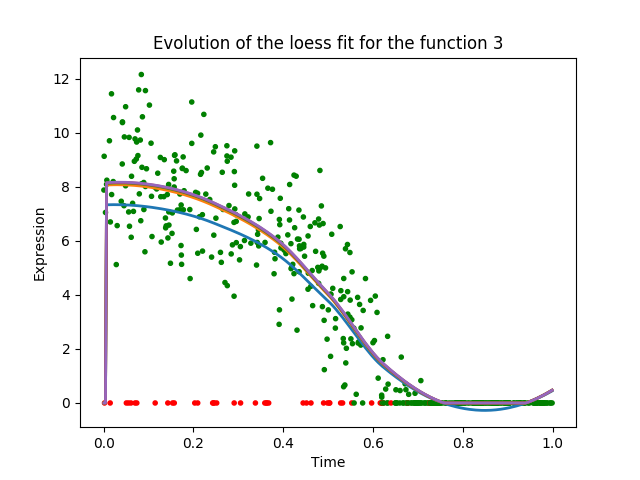
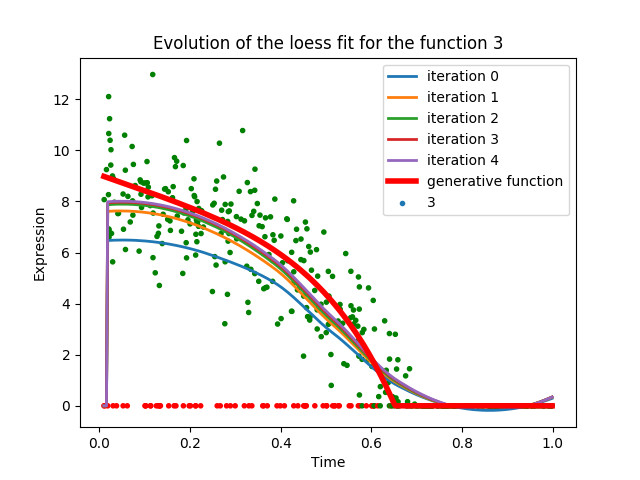
New figures

diff --git a/Code/em.py b/Code/em.py
@@ -200,12 +200,13 @@ def show_loess(data, loess, real_functions, labels):
                 plt.xlabel('Time')
                 plt.ylabel('Expression')
                 plt.title('Evolution of the loess fit for the function %s' % ix)
-                plt.savefig('../figure/loess_fit_%s.png' % ix)
 
         f = lambda x: np.polyval(real_functions.loc[ix, :], x)
         real_values = [max(f(t), 0) for t in times]
         plt.plot(times, real_values, c='r', linewidth=4, label='generative function')
         plt.legend()
+        plt.savefig('../figure/loess_fit_%s.png' % ix)
+
     plt.show()
 
 
@@ -213,10 +214,12 @@ if __name__ == '__main__':
 
     print('Loading data...')
 
-    data = pd.read_csv('../cache/synthetic_data.csv', index_col=0)
-    times = np.array(pd.read_csv('../cache/times.csv', index_col=0))
-    real_labels = pd.read_csv('../cache/dropped_points.csv', index_col=0)
-    real_function = pd.read_csv('../cache/generative_functions.csv', index_col=0)
+    n_genes = 5
+
+    data = pd.read_csv('../cache/synthetic_data.csv', index_col=0, nrows=n_genes)
+    times = np.array(pd.read_csv('../cache/times.csv', index_col=0, nrows=n_genes))
+    real_labels = pd.read_csv('../cache/dropped_points.csv', index_col=0, nrows=n_genes)
+    real_functions = pd.read_csv('../cache/generative_functions.csv', index_col=0, nrows=n_genes)
     times = times.reshape((500,))
 
     print('Starting EM...')
@@ -230,4 +233,5 @@ if __name__ == '__main__':
 
     # evaluate_classification(labels, real_labels)
     # show_data(data, functions, times, labels)
-    # show_loess(data, functions, real_functions, real_labels)
+
+    show_loess(data, functions, real_functions, real_labels)
